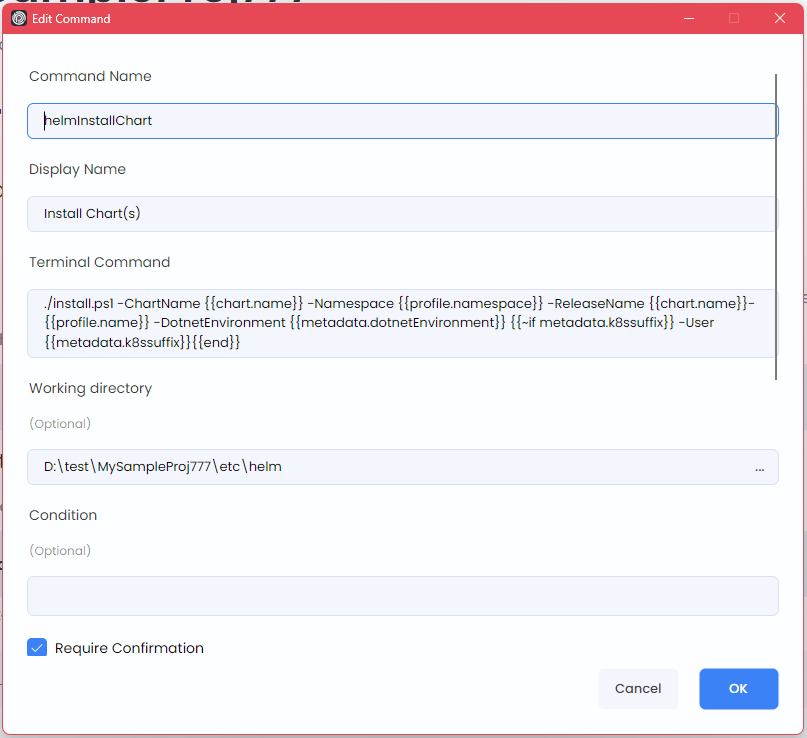
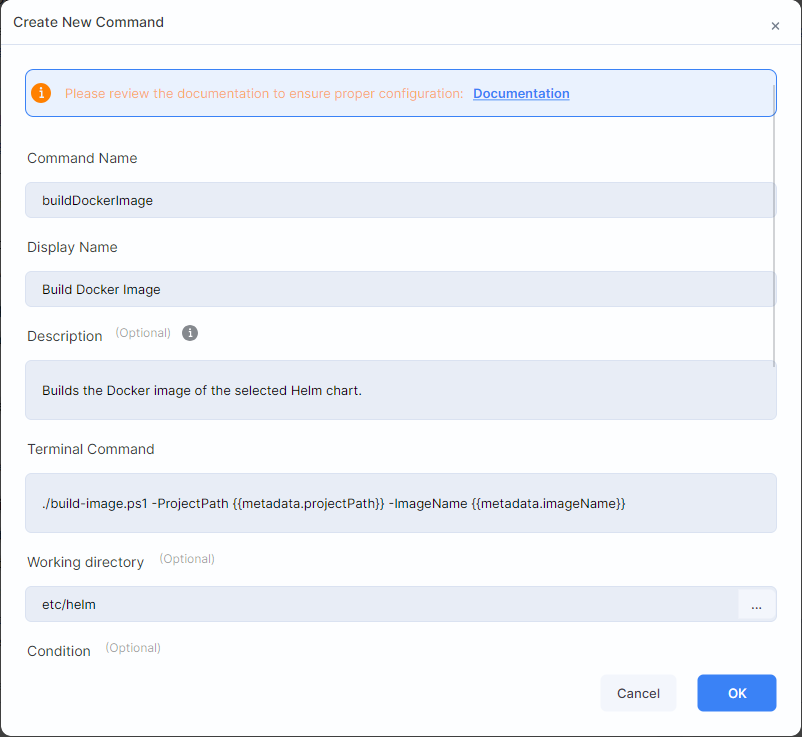
Document custom commands and ABP Agent support
Clarify command management, properties, and validation; explain how ABP Agent discovers and runs commands; update the screenshots.

Changed region(s): [[0.0, 0.0, 1.0, 1.0], [0.9352, 0.6242, 0.9663, 0.6554]]

diff --git a/docs/en/studio/custom-commands.md b/docs/en/studio/custom-commands.md
@@ -23,29 +23,36 @@ Custom commands allow you to define reusable terminal commands that appear in co
 
 ## Opening the Management Window
 
-To manage custom commands, right-click on the solution root in *Solution Explorer* and select *Manage Custom Commands*.
+To manage custom commands, right-click the solution root in the *Solution Explorer* panel and select **Manage Custom Commands**.
 
 ![Custom Commands Management Window](images/custom-commands/management-window.png)
 
-The management window displays all defined commands with options to add, edit, or delete them.
+The **Manage Custom Commands** window lists the display name of every defined command. Use the pencil icon (**Edit Command**) in the *Actions* column to edit a command, or the trash icon (**Delete**) to delete it after confirmation. Use **Add New Command** at the top right to create a new one.
 
 ## Creating a New Command
 
-Click the *Add New Command* button to open the command editor dialog.
+Click the **Add New Command** button. The **Create New Command** form opens on top of the window. Fill in the fields, select at least one trigger target and click **OK**.
 
 ![Create/Edit Custom Command](images/custom-commands/create-edit-command.png)
+
+The form has more fields than fit on the screen at once. Scroll down to reach the condition, confirmation and target options.
+
+> Commands are stored in the `.abpsln` file of the solution, so they are shared with your team through source control.
 
 ## Command Properties
 
 | Property | Description |
 |----------|-------------|
-| **Command Name** | A unique identifier for the command (used internally) |
+| **Command Name** | A unique identifier for the command (used internally). Use only letters, numbers, underscores, dashes and dots |
 | **Display Name** | The text shown in context menus |
+| **Description** | Optional. Up to 512 characters. Shown as a tooltip for the command in context menus and read by [ABP Agent](#letting-abp-agent-run-your-commands) to understand what the command does |
 | **Terminal Command** | The PowerShell command to execute. Use `&&&` to chain multiple commands |
-| **Working Directory** | Optional. The directory where the command runs (relative to solution path) |
+| **Working directory** | Optional. The directory where the command runs. You can type a path or pick a folder; it is saved relative to the solution folder |
 | **Condition** | Optional. A [Scriban](https://github.com/scriban/scriban/blob/master/doc/language.md) expression that determines when the command is visible |
 | **Require Confirmation** | When enabled, shows a confirmation dialog before execution |
 | **Confirmation Text** | The message shown in the confirmation dialog |
+
+> The **OK** button stays disabled until the command name, display name, terminal command and at least one trigger target are provided.
 
 ## Trigger Targets
 
@@ -115,8 +122,9 @@ Here's an example command that builds a Docker image for Helm charts:
 **Command Properties:**
 - **Command Name:** `buildDockerImage`
 - **Display Name:** `Build Docker Image`
+- **Description:** `Builds the Docker image of the selected Helm chart.`
 - **Terminal Command:** `./build-image.ps1 -ProjectPath {%{{{metadata.projectPath}}}%} -ImageName {%{{{metadata.imageName}}}%}`
-- **Working Directory:** `etc/helm`
+- **Working directory:** `etc/helm`
 - **Trigger Targets:** Helm Charts Root, Helm Main Chart, Helm Sub Chart
 - **Execution Targets:** Helm Main Chart, Helm Sub Chart
 - **Condition:** `{%{{{metadata.projectPath}}}%}`
@@ -126,3 +134,17 @@ This command:
 2. Executes on main charts and sub charts (cascading from root if triggered there)
 3. Only shows for charts that have `projectPath` metadata defined
 4. Runs the `build-image.ps1` script with dynamic parameters from metadata
+
+## Letting ABP Agent Run Your Commands
+
+ABP Agent can list the custom commands of the open solution and run them for you. For example, you can ask the agent to "build the Docker image of the identity service" instead of finding the command in a context menu.
+
+For the agent to use a command correctly:
+
+1. Write a **Description** that explains what the command does and when to use it. The agent reads it together with the command name and display name.
+2. Select the correct **Trigger Targets** and **Execution Targets**. When the agent runs a command, it passes one of these target types and, except for *Helm Charts Root* and *Solution Runner Root*, the name of the target item (for example a chart, folder or application name).
+3. Mention risky commands in the description. The agent sees whether a command has **Require Confirmation** when it lists the commands, but a command the agent runs does not show the confirmation dialog; the dialog appears only when you run the command from a context menu.
+
+The agent runs the command as a background task, waits for it to finish and shows you the result. If the command fails, the logs are returned to the agent.
+
+> ABP Agent must be enabled and a solution must be open. If the agent says it cannot find a command, ask it to list the custom commands first; the command name must match exactly.
